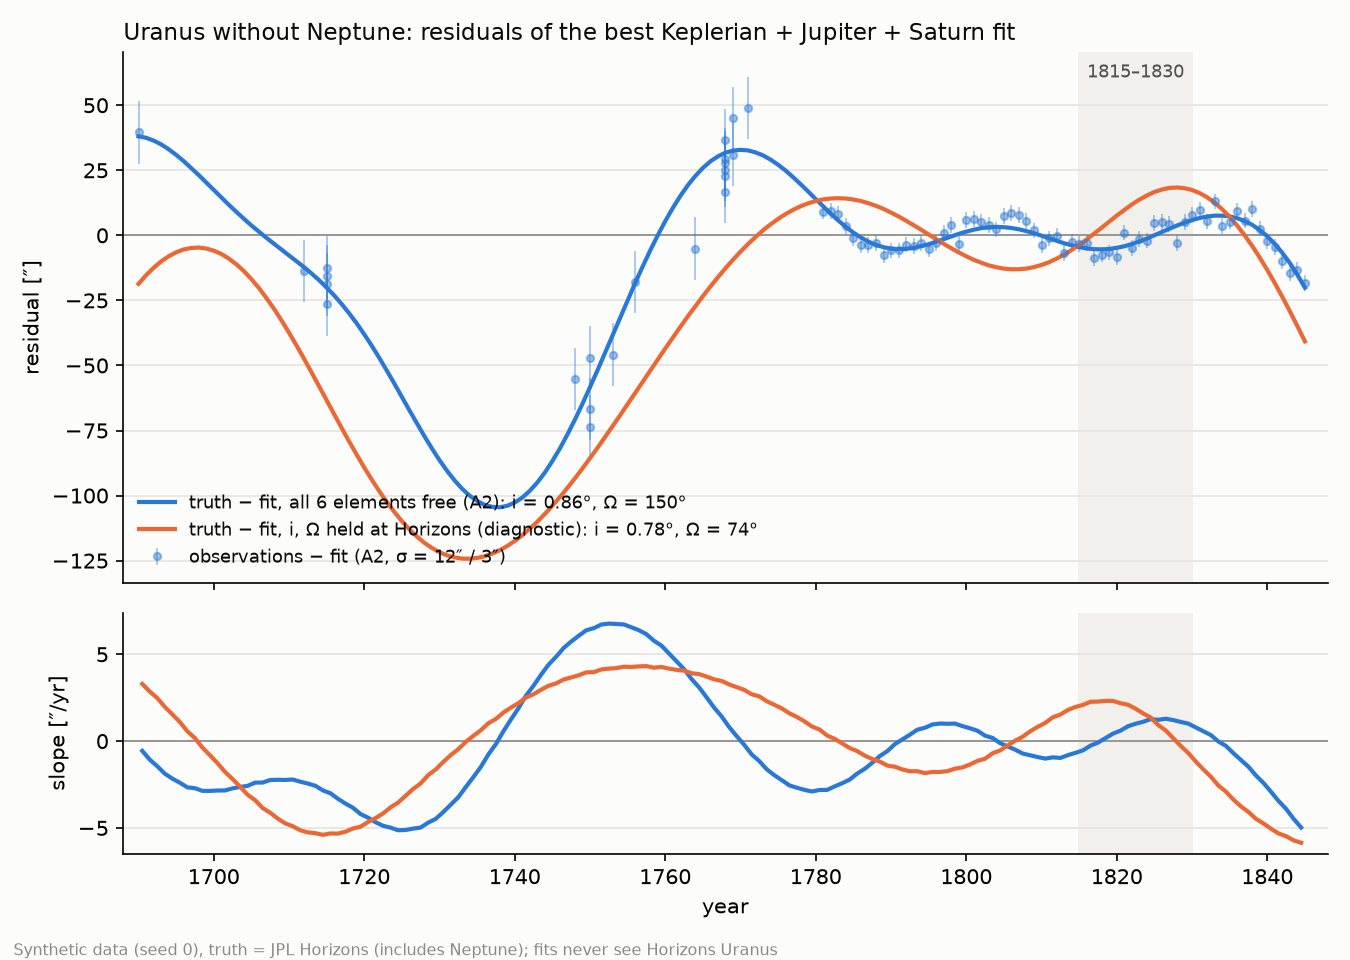
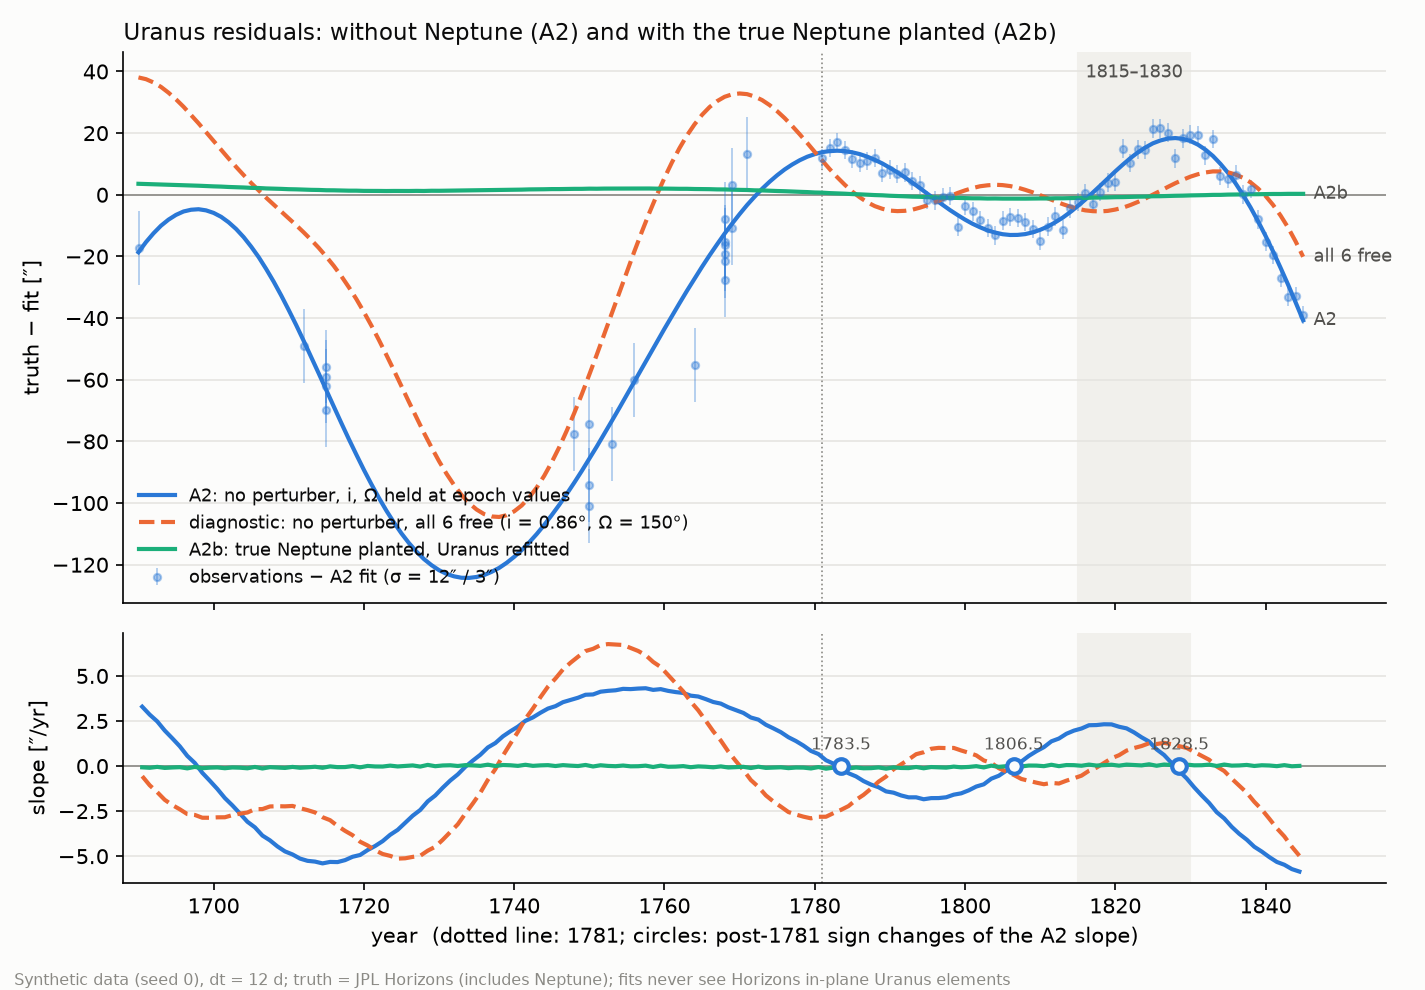
A2 re-run with i, Omega held: final A2/A2b numbers, notes and plot
Review decision 4. dt = 12 d, a/e/varpi/lambda0 free from a data-only start, i and Omega
held at 1781 values.
- A2 peak-to-peak 142.7" (seeds 0-4: 142.7-145.4").
- Post-1781 turnover (slope sign change in 1815-1830): 1828.5 on every seed. Other
  post-1781 sign changes: ~1806.5 (minimum), 1783.5.
- For comparison, all six free (diagnostic): turnover 1818.5.
- A2b: post-1781 RMS 0.93-1.02 sigma planted vs 4.55 sigma without Neptune.
- M4_residuals.png now shows A2, the all-free diagnostic and A2b, with the post-1781
  sign changes marked.

Changed region(s): [[0.0, 0.0, 0.9956, 1.0], [0.7467, 0.0625, 0.8711, 0.0938], [0.4667, 0.125, 0.4978, 0.1562]]

diff --git a/docs/notes/scripts/m4_residuals_plot.py b/docs/notes/scripts/m4_residuals_plot.py
@@ -1,10 +1,13 @@
-"""A2 diagnostic: Uranus-only fit residuals → docs/notes/M4_residuals.png.
+"""A2 / A2b diagnostic → docs/notes/M4_residuals.png.
 
     uv run python docs/notes/scripts/m4_residuals_plot.py
 
-Top: noise-free residual curve (Horizons truth − best no-perturber fit) for the A2 fit (all six
-Uranus elements free) and, as a diagnostic, the fit with i and Ω held at Horizons values; noisy
-observation residuals of the A2 fit as dots. Bottom: the slope of each curve (″/yr).
+Top: noise-free residual curves (Horizons truth − best fit), yearly 1690–1845:
+  - A2: no perturber, a/e/ϖ/λ₀ free, i and Ω held at epoch values (rule 2), with the noisy
+    observation residuals as dots;
+  - diagnostic: no perturber, all six Uranus elements free;
+  - A2b: true Neptune planted, Uranus refitted.
+Bottom: slope of each curve (″/yr); post-1781 sign changes of the A2 slope are marked.
 """
 
 from pathlib import Path
@@ -15,15 +18,23 @@ matplotlib.use("Agg")
 import matplotlib.pyplot as plt
 import numpy as np
 
+from fork.data.horizons import states_about_inner_barycenter_ecl_j2000 as about
 from fork.data.synthetic import jd_tdb_jan1, make_synthetic_observations, true_uranus_lon_ecl_j2000_rad
-from fork.inference.fit import fit_uranus_only, wrap_rad
-from fork.model.forward import ForwardContext, UranusModel, uranus_inc_raan_at_epoch
+from fork.inference.fit import fit_uranus_elements, wrap_rad
+from fork.model import bodies
+from fork.model.forward import (
+    ForwardContext,
+    perturber_theta_from_state,
+    predict_uranus_lon,
+    uranus_inc_raan_at_epoch,
+)
 
 ARC = 206264.80624709636
 EPOCH = 2371628.5
 OUT = Path(__file__).resolve().parents[1] / "M4_residuals.png"
 SURFACE, INK, INK_2, INK_MUTED, GRID = "#fcfcfb", "#0b0b0b", "#52514e", "#8a8984", "#e6e5e1"
-C_FREE, C_FIXED = "#2a78d6", "#eb6834"  # categorical slots 1, 2 (validated pair)
+# categorical slots 1–3 (validated; slot 3 is < 3:1 contrast, so every line is direct-labelled)
+C_A2, C_FREE, C_A2B = "#2a78d6", "#eb6834", "#1baf7a"
 
 
 def jd_to_year(jd):
@@ -31,52 +42,74 @@ def jd_to_year(jd):
 
 
 def main() -> None:
-    model = UranusModel(ForwardContext.from_horizons(EPOCH))
+    ctx = ForwardContext.from_horizons(EPOCH)
     obs, _truth = make_synthetic_observations(np.random.default_rng(0))
     inc_raan = uranus_inc_raan_at_epoch(EPOCH)
+    th_nep = perturber_theta_from_state(about("neptune", [EPOCH])[0], bodies.NEPTUNE.mass_msun)
     fits = {
-        "free": fit_uranus_only(obs, model, inc_raan, free_inc_raan=True),
-        "fixed": fit_uranus_only(obs, model, inc_raan),
+        "a2": (fit_uranus_elements(obs, ctx, inc_raan), None),
+        "free": (fit_uranus_elements(obs, ctx, inc_raan, free_inc_raan=True), None),
+        "a2b": (fit_uranus_elements(obs, ctx, inc_raan, fixed_perturber_theta=th_nep), th_nep),
     }
     years = np.arange(1690, 1846)
     grid = jd_tdb_jan1(years)
     truth_grid = true_uranus_lon_ecl_j2000_rad(grid)
-    curves = {k: wrap_rad(truth_grid - model.predict(f.theta, grid)) * ARC for k, f in fits.items()}
+    curves = {}
+    for k, (f, pert) in fits.items():
+        theta = f.theta if pert is None else np.concatenate([f.theta, pert])
+        curves[k] = wrap_rad(truth_grid - predict_uranus_lon(theta, grid, ctx)) * ARC
 
-    fig, (ax, ax2) = plt.subplots(2, 1, figsize=(9, 6.4), dpi=150, sharex=True, facecolor=SURFACE,
+    fig, (ax, ax2) = plt.subplots(2, 1, figsize=(9.5, 6.6), dpi=150, sharex=True, facecolor=SURFACE,
                                   gridspec_kw={"height_ratios": [2.2, 1]})  # fmt: skip
     for a in (ax, ax2):
         a.set_facecolor(SURFACE)
         a.grid(axis="y", color=GRID, lw=0.8)
         a.spines[["top", "right"]].set_visible(False)
         a.axvspan(1815, 1830, color="#f1f0ec", zorder=0)
+        a.axvline(1781, color=INK_MUTED, lw=0.8, ls=":")
         a.axhline(0, color=INK_MUTED, lw=0.8)
-    f = fits["free"]
-    ax.errorbar(jd_to_year(obs.jd_tdb), f.residual_rad * ARC, yerr=obs.sigma_rad * ARC, fmt="o",
-                ms=3.5, color=C_FREE, alpha=0.45, elinewidth=0.8, capsize=0,
-                label="observations − fit (A2, σ = 12″ / 3″)")  # fmt: skip
-    i_f, i_x = np.degrees(fits["free"].theta[2]), np.degrees(fits["fixed"].theta[2])
-    o_f, o_x = np.degrees(fits["free"].theta[3]), np.degrees(fits["fixed"].theta[3])
-    ax.plot(years, curves["free"], color=C_FREE, lw=2,
-            label=f"truth − fit, all 6 elements free (A2): i = {i_f:.2f}°, Ω = {o_f:.0f}°")  # fmt: skip
-    ax.plot(years, curves["fixed"], color=C_FIXED, lw=2,
-            label=f"truth − fit, i, Ω held at Horizons (diagnostic): i = {i_x:.2f}°, Ω = {o_x:.0f}°")  # fmt: skip
-    ax.set_ylabel("residual [″]")
-    ax.set_title("Uranus without Neptune: residuals of the best Keplerian + Jupiter + Saturn fit",
+
+    a2 = fits["a2"][0]
+    i_f, o_f = np.degrees(fits["free"][0].theta[2]), np.degrees(fits["free"][0].theta[3])
+    ax.errorbar(jd_to_year(obs.jd_tdb), a2.residual_rad * ARC, yerr=obs.sigma_rad * ARC, fmt="o",
+                ms=3.5, color=C_A2, alpha=0.4, elinewidth=0.8, capsize=0,
+                label="observations − A2 fit (σ = 12″ / 3″)")  # fmt: skip
+    series = (
+        ("a2", C_A2, "-", "A2: no perturber, i, Ω held at epoch values", "A2"),
+        ("free", C_FREE, "--",
+         f"diagnostic: no perturber, all 6 free (i = {i_f:.2f}°, Ω = {o_f:.0f}°)", "all 6 free"),
+        ("a2b", C_A2B, "-", "A2b: true Neptune planted, Uranus refitted", "A2b"),
+    )  # fmt: skip
+    for k, c, ls, label, short in series:
+        ax.plot(years, curves[k], color=c, lw=2, ls=ls, label=label)
+        ax.annotate(short, (years[-1], curves[k][-1]), xytext=(5, 0), textcoords="offset points",
+                    va="center", fontsize=8.5, color=INK_2)  # fmt: skip
+        ax2.plot(years[1:] - 0.5, np.diff(curves[k]), color=c, lw=2, ls=ls)
+
+    post = years >= 1781
+    s = np.sign(np.diff(curves["a2"][post]))
+    flips = years[post][1:-1][np.nonzero(s[1:] != s[:-1])[0]] + 0.5
+    for yr in flips:
+        ax2.plot(yr, 0, "o", ms=7, mfc=SURFACE, mec=C_A2, mew=2, zorder=5)
+        ax2.annotate(f"{yr:.1f}", (yr, 0), xytext=(0, 8), textcoords="offset points",
+                     ha="center", fontsize=8, color=INK_2)  # fmt: skip
+
+    ax.set_ylabel("truth − fit [″]")
+    ax.set_title("Uranus residuals: without Neptune (A2) and with the true Neptune planted (A2b)",
                  loc="left", color=INK, fontsize=11)  # fmt: skip
     ax.legend(loc="lower left", frameon=False, fontsize=8.5, labelcolor=INK)
     ax.annotate("1815–1830", (1822.5, ax.get_ylim()[1]), xytext=(0, -12), textcoords="offset points",
                 ha="center", fontsize=8.5, color=INK_2)  # fmt: skip
-    for k, c in (("free", C_FREE), ("fixed", C_FIXED)):
-        ax2.plot(years[1:] - 0.5, np.diff(curves[k]), color=c, lw=2)
     ax2.set_ylabel("slope [″/yr]")
-    ax2.set_xlabel("year")
-    ax2.set_xlim(1688, 1848)
-    fig.text(0.01, 0.005, "Synthetic data (seed 0), truth = JPL Horizons (includes Neptune); "
-             "fits never see Horizons Uranus", fontsize=7.5, color=INK_MUTED)  # fmt: skip
+    ax2.set_xlabel("year  (dotted line: 1781; circles: post-1781 sign changes of the A2 slope)")
+    ax2.set_xlim(1688, 1856)
+    fig.text(0.01, 0.005, "Synthetic data (seed 0), dt = 12 d; truth = JPL Horizons (includes "
+             "Neptune); fits never see Horizons in-plane Uranus elements", fontsize=7.5,
+             color=INK_MUTED)  # fmt: skip
     fig.tight_layout(rect=(0, 0.02, 1, 1))
     fig.savefig(OUT, facecolor=SURFACE)
     print(f"wrote {OUT}")
+    print("post-1781 A2 slope sign changes:", flips.tolist(), "p2p", round(float(np.ptp(curves["a2"])), 1))
 
 
 if __name__ == "__main__":

diff --git a/docs/notes/M4.md b/docs/notes/M4.md
@@ -1,4 +1,4 @@
-# M4: Forward model and synthetic data (A2)
+# M4: Forward model and synthetic data (A2, A2b)
 
 ## Built
 - `fork/model/forward.py`: generic interface `model.param_names` / `model.predict(θ, t_jd)`.
@@ -16,8 +16,9 @@
   - The years and counts approximate the commonly cited record (Flamsteed 6, Bradley 3, Mayer 1,
     Le Monnier 12). They're placed at Jan 1.0 TDB as a stand-in until M6 brings real dates.
   - Seeded through an explicit `rng`. `LongitudeObservations` never carries the truth.
-- `fork/inference/fit.py`: `fit_uranus_only`, a Levenberg–Marquardt fit of a, e, ϖ, λ₀ with i, Ω
-  held (`fork.model.forward.uranus_inc_raan_at_epoch`).
+- `fork/inference/fit.py`: `fit_uranus_elements`, a Levenberg–Marquardt fit of a, e, ϖ, λ₀ with
+  i, Ω held (`fork.model.forward.uranus_inc_raan_at_epoch`). It takes an optional fixed, planted
+  perturber (A2b); `fit_uranus_only` is the no-perturber wrapper.
   - It works in non-singular variables (a, e·cos ϖ, e·sin ϖ, λ₀, tan(i/2)·cos Ω, tan(i/2)·sin Ω).
   - The start is **data-only**: mean motion from the post-1781 longitudes, then Kepler III, with
     e = 0. Horizons Uranus is never used.
@@ -30,23 +31,40 @@
   fixture, so the M4 tests run in CI without network. Any attempted fetch fails loudly.
 - `docs/notes/M4_residuals.png` (script: `docs/notes/scripts/m4_residuals_plot.py`).
 
-## A2 numbers, first pass (superseded: all 6 free; see the final section below)
-Residual curve = Horizons truth − best fit, noise-free, yearly 1690–1845.
+## A2 and A2b, final (dt = 12 d; a, e, ϖ, λ₀ free from a data-only start; i, Ω held)
+Residual curve = Horizons truth − best fit, noise-free, yearly 1690–1845. A2's slope check uses
+only the post-1781 part. A2b's RMS is obs − fit over the 65 post-1781 observations (σ = 3″).
 
-| seed | peak-to-peak | slope sign changes (year) | fitted i, Ω | obs RMS |
-|---|---|---|---|---|
-| 0 | **142.6″** | 1738.5, 1770.5, 1791.5, 1804.5, **1818.5**, 1833.5 | 0.86°, 150° | 19.6″ |
-| 1 | 140.8″ | …, **1818.5**, 1834.5 | 0.88°, 149° | 18.7″ |
-| 2 | 140.4″ | …, **1818.5**, 1833.5 | 0.87°, 148° | 19.5″ |
-| 3 | 137.8″ | …, **1818.5**, 1833.5 | 0.87°, 147° | 20.8″ |
-| 4 | 141.6″ | …, **1818.5**, 1834.5 | 0.89°, 148° | 19.9″ |
+| seed | A2 peak-to-peak | A2 post-1781 slope sign changes | A2 χ²/dof | A2b post-1781 RMS | same RMS, no Neptune |
+|---|---|---|---|---|---|
+| 0 | **142.7″** | 1783.5, 1806.5, **1828.5** | 21.6 | **2.85″ = 0.95σ** | 13.65″ = 4.55σ |
+| 1 | 145.4″ | 1783.5, 1806.5, **1828.5** | 21.5 | 2.78″ = 0.93σ | 13.68″ = 4.56σ |
+| 2 | 144.9″ | 1783.5, 1806.5, **1828.5** | 21.8 | 3.03″ = 1.01σ | 13.69″ = 4.56σ |
+| 3 | 142.7″ | 1784.5, 1806.5, **1828.5** | 22.0 | 3.06″ = 1.02σ | 13.62″ = 4.54σ |
+| 4 | 143.9″ | 1783.5, 1807.5, **1828.5** | 22.1 | 3.02″ = 1.01σ | 13.74″ = 4.58σ |
 
-Target: p2p 130 ± 25″ ✔. Slope sign change within 1815–1830 ✔ (**1818.5**, every seed).
-Each fit takes ~1.5 s (4 starts, ~20 evaluations each). A 6-parameter prediction over 1690–1846
-takes 3.6 ms; 11 parameters take 4.7 ms.
+- A2: p2p 130 ± 25″ ✔, post-1781 slope sign change within 1815–1830 ✔.
+  - **The post-1781 turnover is at 1828.5** for every seed. The residual peaks at +18″ around
+    1828, then Uranus falls behind the Neptune-free orbit (−41″ by 1845).
+  - The other post-1781 sign changes are the minimum near 1806.5 and an edge effect at 1783.5,
+    two years into the dense data.
+- A2b: ≤ 1.5σ ✔ on every seed, at 0.93–1.02σ. That's consistent with pure noise; χ²/dof over
+  all 87 points is 0.75–1.20.
+  - The noise-free planted residual is 0.33–0.74″ RMS post-1781. That's the floor set by the
+    planar-Neptune approximation plus noise-driven scatter in the refitted elements.
+  - The test also asserts the converse: the no-Neptune fit fails the same criterion (4.55σ), so
+    A2b actually discriminates.
+- A fit takes ~0.15 s (one start, 7–8 residual evaluations plus finite-difference Jacobians). A 6-parameter
+  prediction over 1690–1846 takes 3.9 ms; 11 parameters take 5.1 ms.
 
-With i, Ω held at the Horizons values (now the default) (0.78°, 74°), p2p is 142.7–145.4″
-and the slope sign change in the window is at **1828.5**.
+**The turnover year depends on the i, Ω choice.** Held: 1828.5. All six free (diagnostic): 1818.5,
+and the curve also changes shape (p2p 137.8–142.6″; post-1781 sign changes 1790.5, 1804.5,
+1818.5, 1833.5). Neither lands on the 1822 conjunction itself. The residual's turning point
+isn't the conjunction date; it follows from the perturbation's phase relative to the fitted
+Keplerian orbit, so a few years' offset is expected. Plot: `M4_residuals.png`.
+
+History: the first M4 pass (`5bc320b`) freed all six elements and checked sign changes over the
+whole 1690–1845 curve. It reported p2p 142.6″ and an in-window change at 1818.5.
 
 ## Big surprise: the inner planets must be folded in at their barycenter
 Before this fix, integrating the **raw Horizons states** of Jupiter–Neptune (full 3-D, WH and RK4
@@ -92,13 +110,12 @@ Why:
   same span. The model integrates those changes; only the epoch values are held.
 
 ## Caveats on the A2 criteria
-- The residual curve has **six** slope sign changes over 1690–1845, not one. Most of the
-  large-scale structure (+38″ at 1690, −105″ at 1738, +33″ at 1770) sits in the sparse
-  pre-discovery era. The post-1781 part is the familiar Le Verrier signature: small wiggles, a
-  turnover around 1818–1833, then Uranus falling behind (−20″ by 1845). "A sign change within
-  1815–1830" is satisfied, but it is weak evidence on its own.
-- The peak-to-peak is dominated by the extrapolated gaps (1690–1712 and 1715–1748), so it depends
-  on the pre-discovery epoch schedule. Revisit with the real M6 dates.
+- The whole 1690–1845 curve turns five times. Most of the large-scale structure (−5″ at 1697,
+  −124″ at 1734, +14″ at 1781) sits in the sparse pre-discovery era. That's why the slope check
+  is now post-1781 only.
+- The peak-to-peak is still taken over the whole curve. It's dominated by the extrapolated gaps
+  (1690–1712 and 1715–1748), so it depends on the pre-discovery epoch schedule. Revisit with the
+  real M6 dates.
 
 ## Regenerating the M4 fixture
 `tests/data/horizons_m4.json` holds the Uranus states at Jan 1.0 of 1690–1846 plus the A1 epoch,
